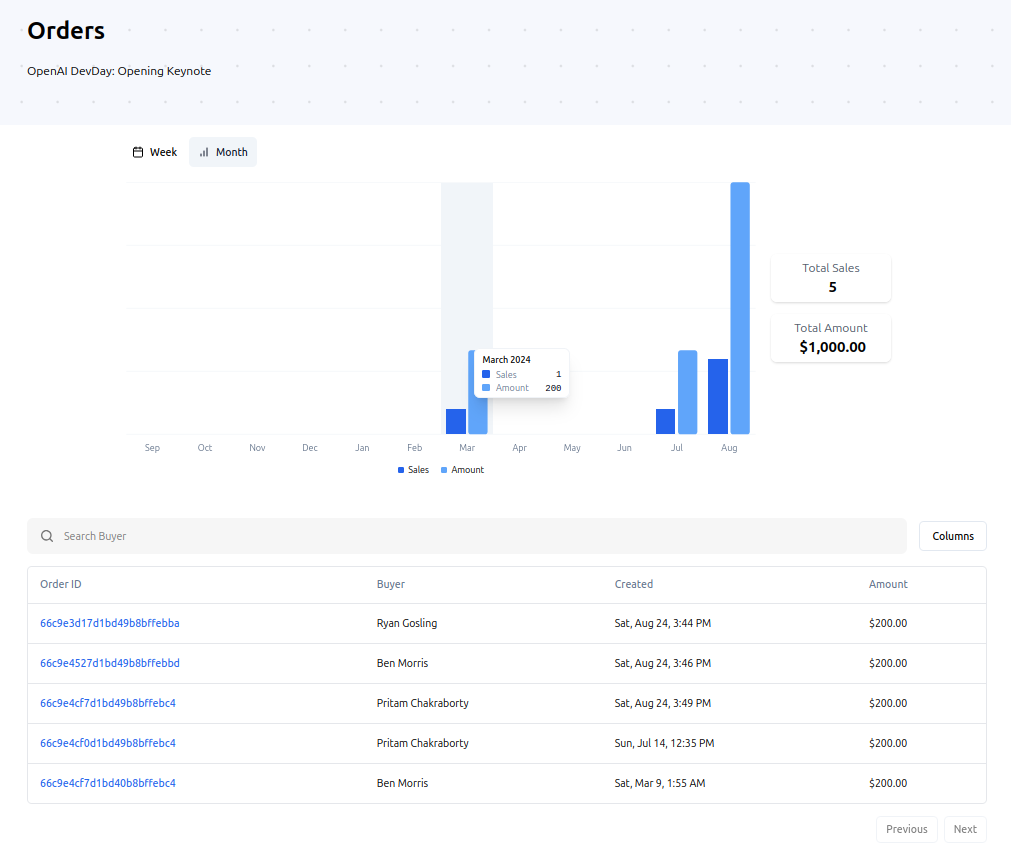
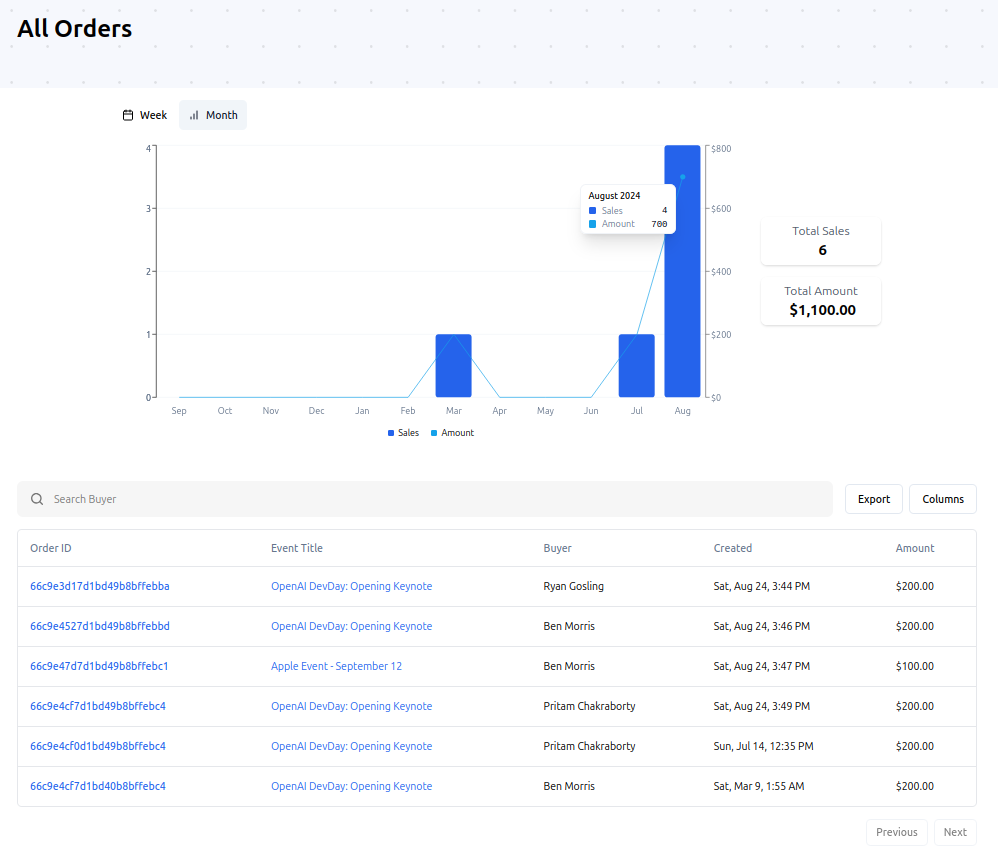
Update Readme

diff --git a/app/(root)/orders/OrdersChart.tsx b/app/(root)/orders/OrdersChart.tsx
@@ -1,7 +1,14 @@
 "use client";
 
 import React, { useState, useEffect } from "react";
-import { Bar, BarChart, CartesianGrid, XAxis } from "recharts";
+import {
+  Bar,
+  CartesianGrid,
+  XAxis,
+  YAxis,
+  Line,
+  ComposedChart,
+} from "recharts";
 import {
   Calendar,
   BarChart as BarChartIcon,
@@ -97,7 +104,7 @@ const OrdersChart = ({ orders }: { orders: IOrderItem[] }) => {
     weekStart.setDate(now.getDate() - 6);
     const monthsAgo = new Date(
       now.getFullYear(),
-      now.getMonth() - (screenSize === "lg" ? 11 : 5),
+      now.getMonth() - (screenSize === "lg" ? 11 : 11),
       1
     );
 
@@ -144,7 +151,7 @@ const OrdersChart = ({ orders }: { orders: IOrderItem[] }) => {
 
   const chartConfig: ChartConfig = {
     Sales: { label: "Sales", color: "#2563eb" },
-    Amount: { label: "Amount", color: "#60a5fa" },
+    Amount: { label: "Amount", color: "#16a2ea" },
   };
 
   const navigateWeek = (direction: "prev" | "next") => {
@@ -224,7 +231,7 @@ const OrdersChart = ({ orders }: { orders: IOrderItem[] }) => {
           config={chartConfig}
           className="h-[300px] md:h-[350px] lg:h-[450px] w-full"
         >
-          <BarChart data={chartData}>
+          <ComposedChart data={chartData}>
             <CartesianGrid vertical={false} />
             <XAxis
               dataKey="period"
@@ -233,15 +240,32 @@ const OrdersChart = ({ orders }: { orders: IOrderItem[] }) => {
               axisLine={false}
               tickFormatter={(value) => value.slice(0, 3)}
             />
+            <YAxis yAxisId="left" orientation="left" />
+            <YAxis yAxisId="left" orientation="left" />
+            <YAxis
+              yAxisId="right"
+              orientation="right"
+              tickFormatter={(value) => `$${value.toFixed(0)}`}
+            />
             <ChartTooltip
               content={<ChartTooltipContent />}
               //@ts-ignore
               className="bg-white"
             />
             <ChartLegend content={<ChartLegendContent />} />
-            <Bar dataKey="Sales" fill="var(--color-Sales)" radius={4} />
-            <Bar dataKey="Amount" fill="var(--color-Amount)" radius={4} />
-          </BarChart>
+            <Bar
+              dataKey="Sales"
+              fill="var(--color-Sales)"
+              radius={4}
+              yAxisId="left"
+            />
+            <Line
+              dataKey="Amount"
+              stroke="var(--color-Amount)"
+              dot={false}
+              yAxisId="right"
+            />
+          </ComposedChart>
         </ChartContainer>
       </div>
       <div className="flex flex-col justify-center items-center gap-4">

diff --git a/README.md b/README.md
@@ -56,7 +56,7 @@ This Events application is built using Next.js. The app features a full-fledged 
 ### Event Management
 
 - Users have the ability to create, update, and delete events.
-- `Event organizers` can access detailed order information, including comprehensive ticket sales `analytics`. These insights are available through both `weekly` and `monthly` charts, as well as an interactive `orders table`, providing a clear overview of event performance.
+- Event organizers can easily view detailed order information for individual events or all orders, including comprehensive ticket sales `analytics`. Access insights through interactive `weekly` and `monthly` charts, as well as a detailed orders table, for a complete overview of event performance.
 - Export Sales report as CSV, Excel, PDF, JSON.
 
 ![Orders-Sales](Images/Orders.png)
